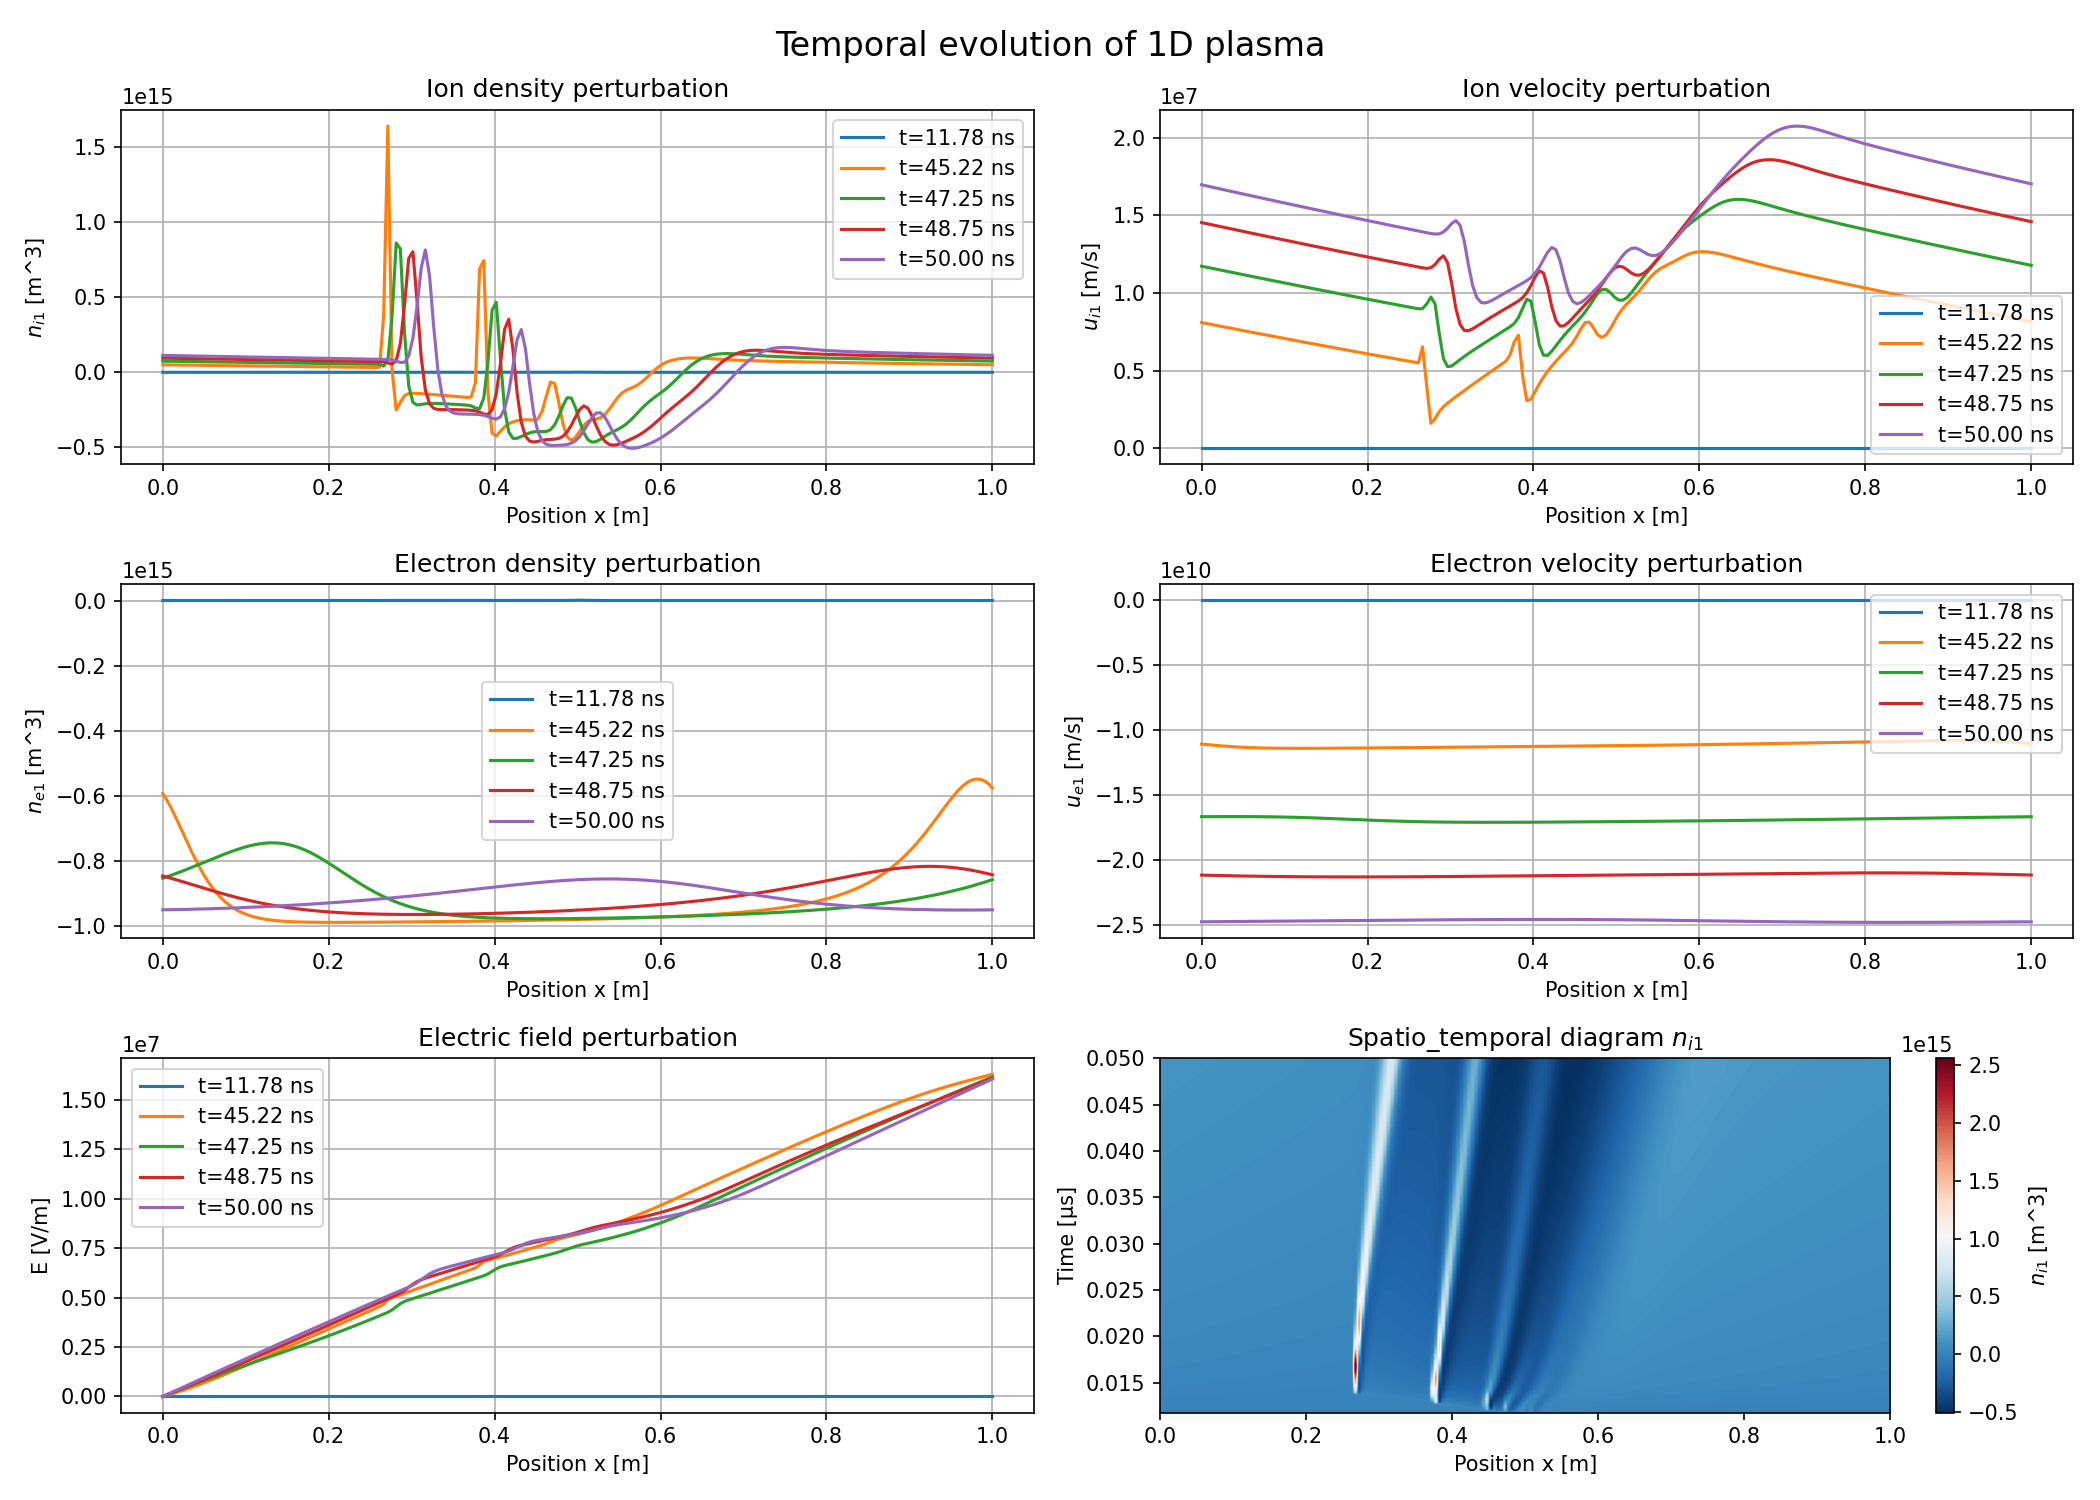
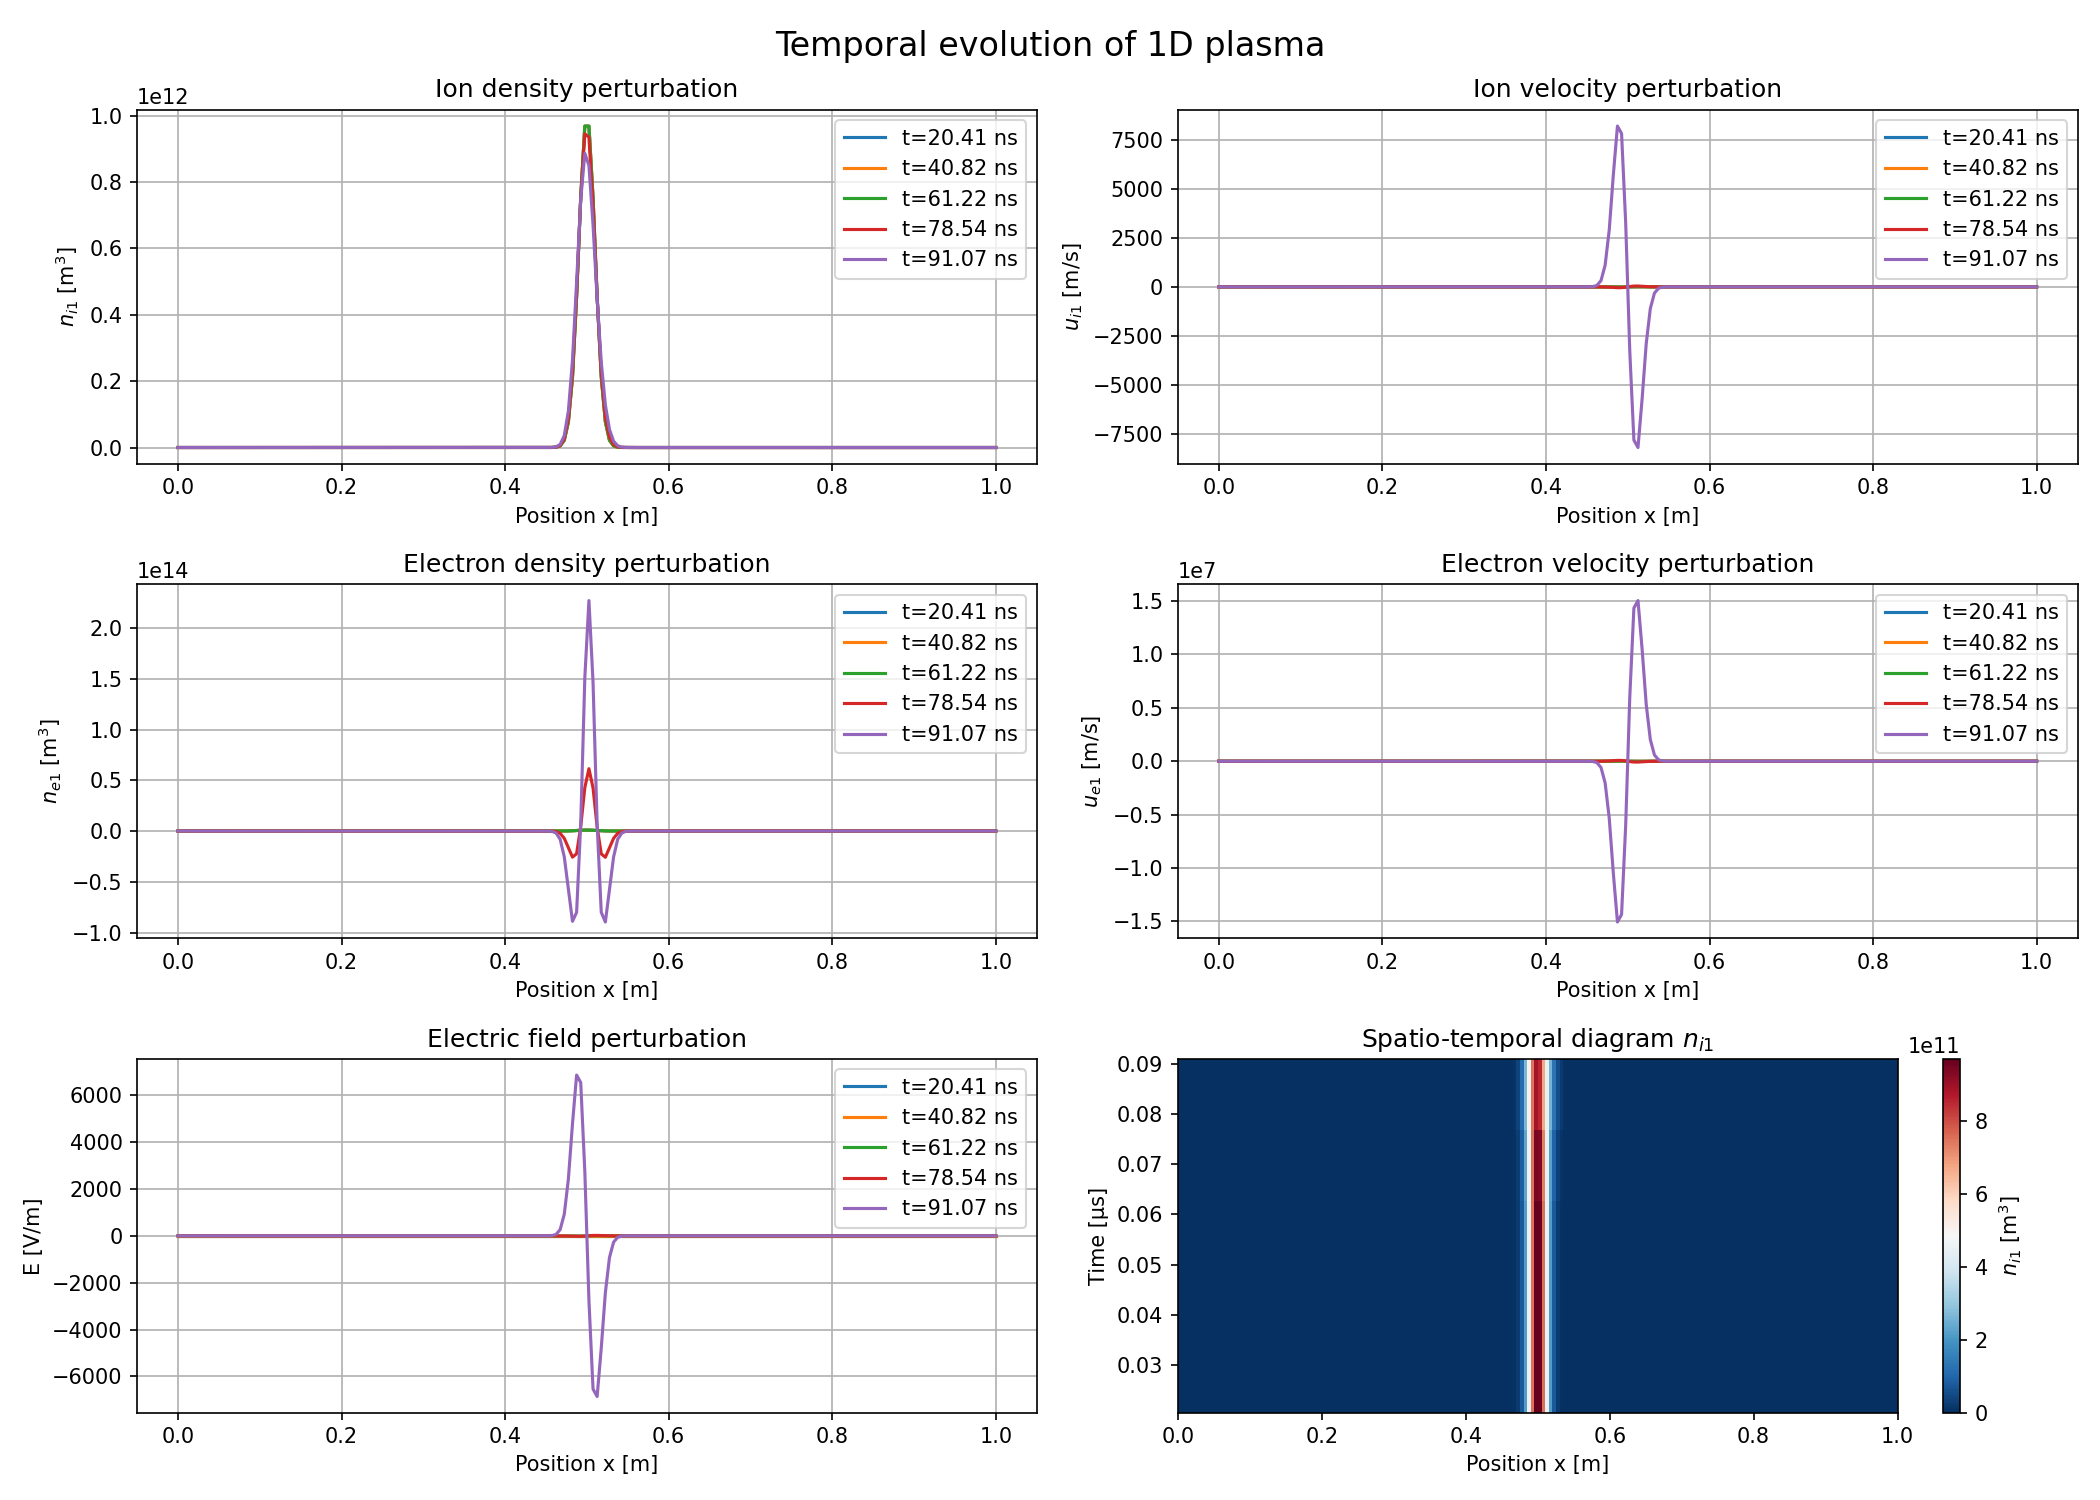
RAM allocations optimized with const / noalias and adress call

Changed region(s): [[0.0, 0.3373, 0.9905, 0.9813], [0.0, 0.0307, 0.9905, 0.3373], [0.0, 0.4907, 0.031, 0.5213]]

diff --git a/include/plasma.hpp b/include/plasma.hpp
@@ -38,6 +38,14 @@ public:
     // Physical parameters
     PlasmaParams params;
     
+private:
+    // Membres pour les fichiers ouverts
+    std::ofstream file_t, file_n_i1, file_u_i1, file_n_e1, file_u_e1, file_E;
+    
+    // Ajoutez des vecteurs temporaires comme membres pour éviter les réallocations
+    Eigen::VectorXd dn_i1_dt, du_i1_dt, dn_e1_dt, du_e1_dt, dE_dx;
+
+public:
     /**
      * @brief Constructor
      */
@@ -49,6 +57,13 @@ public:
         n_e1.resize(Nx); n_e1.setZero();
         u_e1.resize(Nx); u_e1.setZero();
         E.resize(Nx); E.setZero();
+        
+        // Initialiser les vecteurs temporaires
+        dn_i1_dt.resize(Nx);
+        du_i1_dt.resize(Nx);
+        dn_e1_dt.resize(Nx);
+        du_e1_dt.resize(Nx);
+        dE_dx.resize(Nx);
         
         // Initialize dt with CFL condition
         dt = compute_cfl_timestep();
@@ -120,13 +135,11 @@ public:
      */
     double pressure_gradient(const Eigen::VectorXd& n_s1, int i, 
                             double n_s0, double P_s0, double gamma_s) const {
-        double dn_dx = derivative_x_centered(n_s1, i);  // Utilise le schéma centré
-        double n_s = n_s0 + n_s1(i);
+        const double dn_dx = derivative_x_centered(n_s1, i);
+        const double n_s = n_s0 + n_s1(i);
         
-        // (1/(n_s*m_s)) * dP_s/dx = P_s0 / n_s0 * [gamma_s/n_s0 * dn_s1/dx * (1 + gamma_s*n_s1/n_s0) 
-        //                                           - 2*gamma_s/n_s0^2 * n_s1 * dn_s1/dx]
-        double term1 = gamma_s / n_s0 * dn_dx * (1.0 + gamma_s * n_s1(i) / n_s0);
-        double term2 = 2.0 * gamma_s / (n_s0 * n_s0) * n_s1(i) * dn_dx;
+        const double term1 = gamma_s / n_s0 * dn_dx * (1.0 + gamma_s * n_s1(i) / n_s0);
+        const double term2 = 2.0 * gamma_s / (n_s0 * n_s0) * n_s1(i) * dn_dx;
         
         return (P_s0 / n_s0) * (term1 - term2);
     }
@@ -136,30 +149,29 @@ public:
      * E field must be computed before calling this
      */
     void compute_derivatives(Eigen::VectorXd& dn_i1_dt, Eigen::VectorXd& du_i1_dt,
-                            Eigen::VectorXd& dn_e1_dt, Eigen::VectorXd& du_e1_dt,
-                            Eigen::VectorXd& E) {
+                            Eigen::VectorXd& dn_e1_dt, Eigen::VectorXd& du_e1_dt) {
         
         // For each spatial point, compute time derivatives
         for (int i = 0; i < Nx; ++i) {
             // Ion continuity equation (equation 1 for ions) - schéma upwind
-            double du_i1_dx = derivative_x_upwind(u_i1, i, params.n_i0 + n_i1(i));
-            double dn_i1_dx = derivative_x_upwind(n_i1, i, u_i1(i));
+            const double du_i1_dx = derivative_x_upwind(u_i1, i, params.n_i0 + n_i1(i));
+            const double dn_i1_dx = derivative_x_upwind(n_i1, i, u_i1(i));
             dn_i1_dt(i) = -(params.n_i0 + n_i1(i)) * du_i1_dx - u_i1(i) * dn_i1_dx;
             
             // Ion momentum equation (equation 2 for ions)
-            double du_i1_dx_u = derivative_x_upwind(u_i1, i, u_i1(i));  // Schéma upwind pour l'advection
-            double dP_i_dx = pressure_gradient(n_i1, i, params.n_i0, params.P_i0, params.gamma_i);
+            const double du_i1_dx_u = derivative_x_upwind(u_i1, i, u_i1(i));
+            const double dP_i_dx = pressure_gradient(n_i1, i, params.n_i0, params.P_i0, params.gamma_i);
             du_i1_dt(i) = -u_i1(i) * du_i1_dx_u - dP_i_dx / params.m_i 
                          + params.q_i * E(i) / params.m_i;
             
             // Electron continuity equation (equation 1 for electrons) - schéma upwind
-            double du_e1_dx = derivative_x_upwind(u_e1, i, params.n_e0 + n_e1(i));
-            double dn_e1_dx = derivative_x_upwind(n_e1, i, u_e1(i));
+            const double du_e1_dx = derivative_x_upwind(u_e1, i, params.n_e0 + n_e1(i));
+            const double dn_e1_dx = derivative_x_upwind(n_e1, i, u_e1(i));
             dn_e1_dt(i) = -(params.n_e0 + n_e1(i)) * du_e1_dx - u_e1(i) * dn_e1_dx;
             
             // Electron momentum equation (equation 2 for electrons)
-            double du_e1_dx_u = derivative_x_upwind(u_e1, i, u_e1(i));  // Schéma upwind pour l'advection
-            double dP_e_dx = pressure_gradient(n_e1, i, params.n_e0, params.P_e0, params.gamma_e);
+            const double du_e1_dx_u = derivative_x_upwind(u_e1, i, u_e1(i));
+            const double dP_e_dx = pressure_gradient(n_e1, i, params.n_e0, params.P_e0, params.gamma_e);
             du_e1_dt(i) = -u_e1(i) * du_e1_dx_u - dP_e_dx / params.m_e 
                          + params.q_e * E(i) / params.m_e;
         }
@@ -171,38 +183,29 @@ public:
     void step_euler() {
         // Update dt based on current state (CFL condition)
         dt = compute_cfl_timestep();
-        
-        Eigen::VectorXd dn_i1_dt(Nx), du_i1_dt(Nx);
-        Eigen::VectorXd dn_e1_dt(Nx), du_e1_dt(Nx);
-        Eigen::VectorXd dE_dx(Nx);
-        
+                
         // First, compute E from Poisson's equation: dE/dx = rho/epsilon_0
-        // Integrate to get E
         dE_dx(0) = 0.0;
         for (int i = 0; i < Nx; ++i) {
-            double charge_density = params.q_i * n_i1(i) + params.q_e * n_e1(i);
+            const double charge_density = params.q_i * n_i1(i) + params.q_e * n_e1(i);
             dE_dx(i) = charge_density / params.epsilon_0;
         }
         
         // Integrate dE/dx to get E(x)
-        E(0) = 0.0; // Boundary condition
+        E(0) = E(Nx-1); // Boundary condition
         for (int i = 1; i < Nx; ++i) {
             E(i) = E(i-1) + dE_dx(i) * dx;
         }
         
         // Now compute time derivatives using current E field
-        compute_derivatives(dn_i1_dt, du_i1_dt, dn_e1_dt, du_e1_dt, dE_dx);
+        compute_derivatives(dn_i1_dt, du_i1_dt, dn_e1_dt, du_e1_dt);
         
         // Update state variables
-        n_i1 += dt * dn_i1_dt;
-        u_i1 += dt * du_i1_dt;
-        n_e1 += dt * dn_e1_dt;
-        u_e1 += dt * du_e1_dt;
+        n_i1.noalias() += dt * dn_i1_dt;
+        u_i1.noalias() += dt * du_i1_dt;
+        n_e1.noalias() += dt * dn_e1_dt;
+        u_e1.noalias() += dt * du_e1_dt;
     }
-    
-private:
-    // Membres pour les fichiers ouverts
-    std::ofstream file_t, file_n_i1, file_u_i1, file_n_e1, file_u_e1, file_E;
     
 public:
     /**
@@ -321,7 +324,7 @@ public:
                       << std::flush;
         }
         
-        close_time_files();  // Fermer proprement les fichiers
+        close_time_files();
         
         std::cout << std::endl << "Datas saved in data/ | " << step << " steps" << std::endl;
         std::cout << "=============================" << std::endl;
@@ -334,15 +337,10 @@ public:
                                    double x0, double sigma_x, double amplitude,
                                    double E_amplitude = 0.0) {
         for (int i = 0; i < Nx; ++i) {
-            double x = x_grid[i];
-            double gauss = amplitude * std::exp(-0.5 * std::pow((x - x0) / sigma_x, 2));
+            const double x = x_grid[i];
+            const double gauss = amplitude * std::exp(-0.5 * std::pow((x - x0) / sigma_x, 2));
             n_i1(i) = params.n_i0 * gauss;
             n_e1(i) = params.n_e0 * gauss;
-            
-            // // Perturbation sur le champ électrique
-            // if (E_amplitude != 0.0) {
-            //     E(i) = E_amplitude * std::exp(-0.5 * std::pow((x - x0) / sigma_x, 2));
-            // }
         }
     }
 };

diff --git a/src/main.cpp b/src/main.cpp
@@ -12,7 +12,7 @@ int main() {
     double dx = (xf - x0) / (Nx - 1);
     
     double t0 = 0.0;           // Start time [s]
-    double tf = 5.0e-8;        // End time [s]
+    double tf = 1e-7;        // End time [s]
     
     std::cout << "=== Simulation Parameters ===" << std::endl;
     std::cout << "Spatial domain: [" << x0 << ", " << xf << "] m" << std::endl;
@@ -39,8 +39,8 @@ int main() {
     params.P_e0 = params.n_e0 * consts::kB * T_e;  // Electron pressure [Pa]
     
     // Adiabatic coefficients
-    params.gamma_i = 3.0;                 // Ion adiabatic coefficient
-    params.gamma_e = 3.0;                 // Electron adiabatic coefficient
+    params.gamma_i = 3.0;                 // Ion adiabatic coefficient (gamma = 3)
+    params.gamma_e = 1.0;                 // Electron adiabatic coefficient (gamma = 1)
     
     // Physical constants
     params.epsilon_0 = consts::epsilon0;  // Vacuum permittivity [F/m]

diff --git a/src/plot_time.py b/src/plot_time.py
@@ -107,7 +107,6 @@ plt.colorbar(im, ax=ax, label=r"$n_{i1}$ [m$^3$]")
 plt.tight_layout()
 plt.savefig("../image/time_evolution.png", dpi=150)
 print("Figure sauvegardée: ../image/time_evolution.png")
-plt.show()
 
 # # Créer une animation (optionnel)
 # print("\nCréation de l'animation...")
